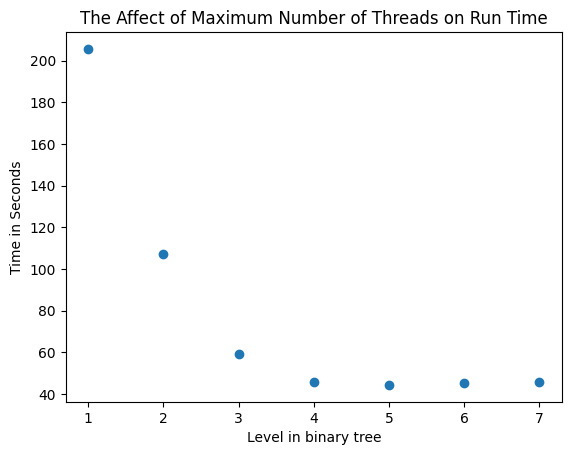
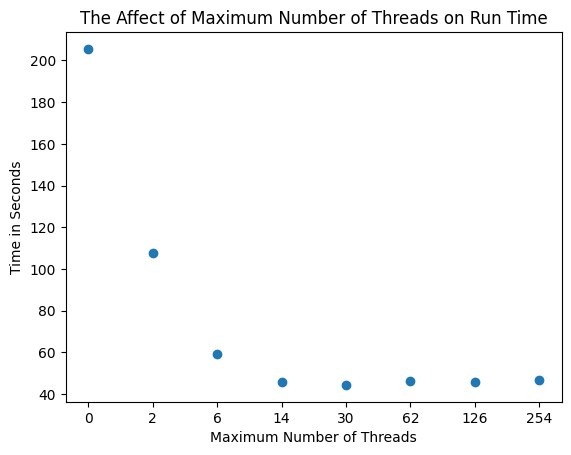
minor modification and a new run

diff --git a/collectAndGraphData.py b/collectAndGraphData.py
@@ -32,9 +32,9 @@ def main():
     except subprocess.CalledProcessError:
         subprocess.run("make")
 
-    # run for ~every level up to 1/2 the height of the binary tree
-    # using the top 1/2 to prevent throwing error from too many threads 
-    for i in range(1, ceil(log2(int(subprocessArgs[1])) / 4)):
+    # run for ~every level up to 1/4 the height of the binary tree
+    # using the top 1/4 to prevent throwing error from too many threads 
+    for i in range(1, ceil(log2(int(subprocessArgs[1])) / 4) + 1):
         # generate a maxThreads value that will matter algorithmically
         maxThreads = 2**i - 2
         print(f"running with {maxThreads} maxThreads...")
@@ -44,13 +44,17 @@ def main():
             # run the compiled parallel merge sort binary and add the runtime output in seconds format
             sum += float(subprocess.check_output(subprocessArgs, encoding="utf-8").split('s')[0])
 
-        listOfMaxThreads.append(i)
+        listOfMaxThreads.append(str(maxThreads))
         averageRunTimes.append(sum / numberOfTimesToRun)
+
+    with open("collected_data.txt", 'w') as f:
+        f.write(f"listOfMaxThreads: {listOfMaxThreads}\n")
+        f.write(f"averageRunTimes: {averageRunTimes}\n")
 
     # plot, visualize, label, and export the data
     plt.scatter(listOfMaxThreads, averageRunTimes)
     plt.title("The Affect of Maximum Number of Threads on Run Time")
-    plt.xlabel("Level in binary tree")
+    plt.xlabel("Maximum Number of Threads")
     plt.ylabel("Time in Seconds")
     plt.savefig("runTimeGraph.png", bbox_inches="tight")
     plt.show()
